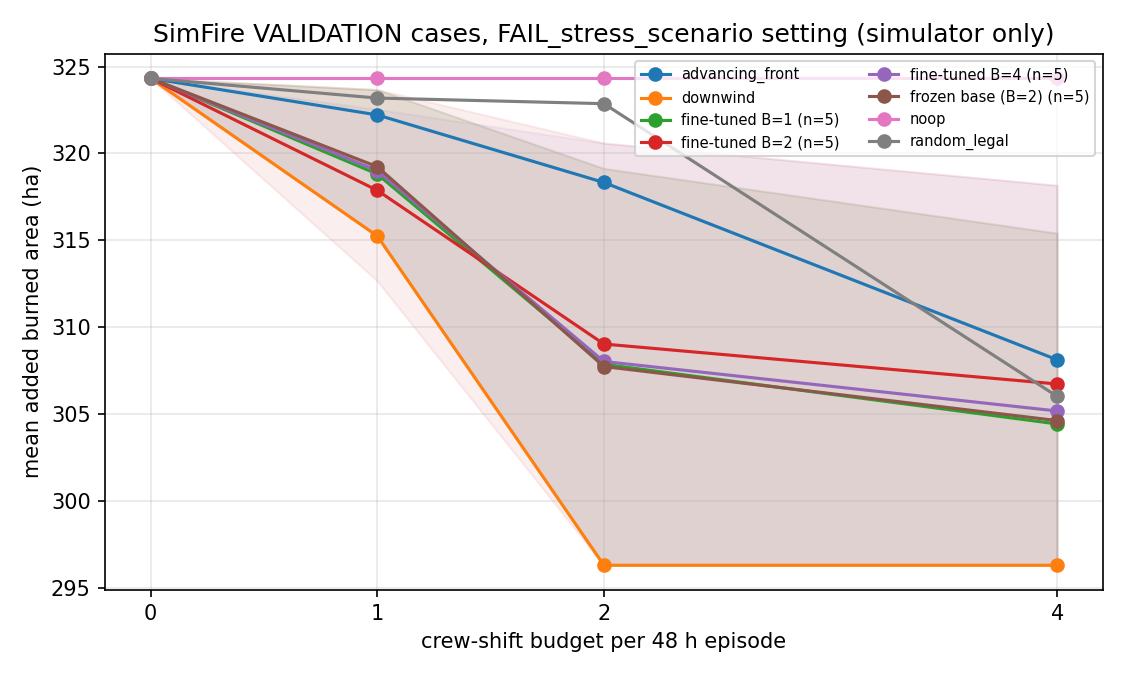
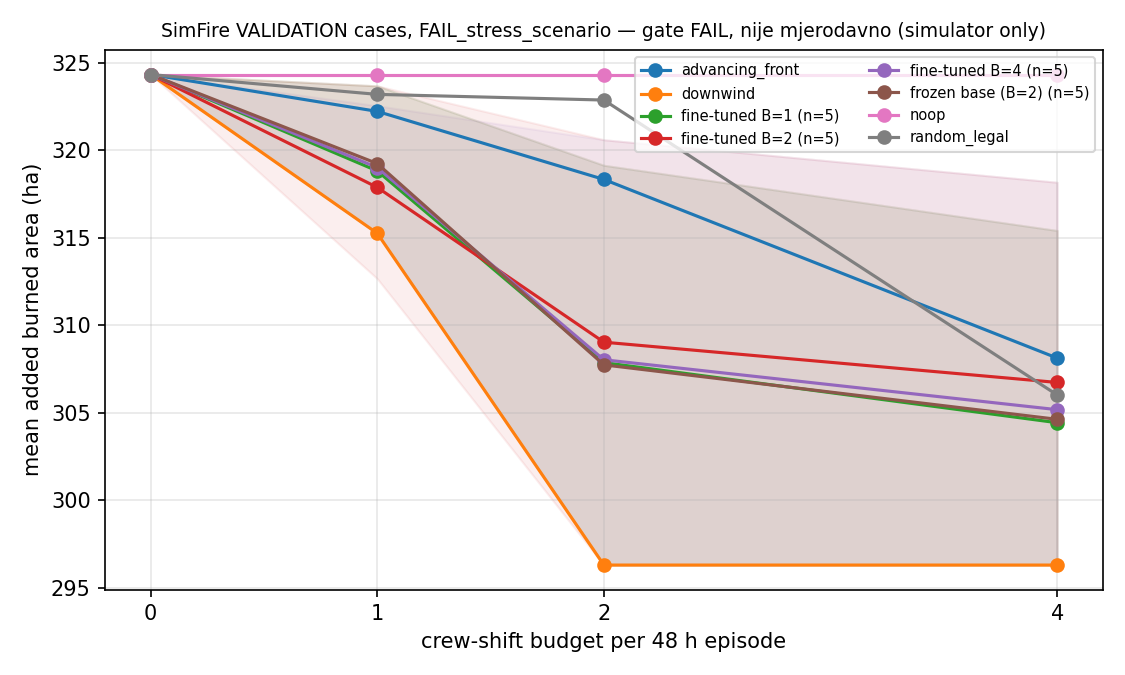
docs: record TASK-019 hypothesis checks; label step 7-8 results gate FAIL, nije mjerodavno

diff --git a/scripts/plot_budget_benchmark.py b/scripts/plot_budget_benchmark.py
@@ -55,8 +55,8 @@ def main(argv=None) -> int:
     axis.set_xticks(budgets)
     axis.set_xlabel("crew-shift budget per 48 h episode")
     axis.set_ylabel("mean added burned area (ha)")
-    axis.set_title("SimFire %s cases, %s setting (simulator only)" % (
-        report["split"].upper(), report.get("params_gate_status")))
+    axis.set_title("SimFire %s cases, %s — gate FAIL, nije mjerodavno (simulator only)" % (
+        report["split"].upper(), report.get("params_gate_status")), fontsize=9)
     axis.grid(alpha=0.3)
     axis.legend(fontsize=7, ncol=2)
     figure.tight_layout()

diff --git a/docs/NEXT_SESSION.md b/docs/NEXT_SESSION.md
@@ -21,6 +21,24 @@ puni izvještaji su u ignorisanom `.local/` na Harunovom računaru; obnova je op
    po budžetu ne daje mjerljivu korist, a downwind heuristika je jednako dobra ili bolja.
    Sve je simulatorski i eksploratorno.
 
+## TASK-019 hipoteze — šta je provjereno (pozitivno i negativno)
+
+| Hipoteza | Provjera | Rezultat |
+|---|---|---|
+| Nepotpune/izmijenjene FEDS arhive | MD5 svih 6 slojeva nakon prekinutog sekvencijalnog preuzimanja (exit 144 = namjerno ugašen i zamijenjen paralelnim) | sve OK, nema `.partial` |
+| Vremensko poravnanje 0–48h | svih 119 epizoda: start maske = prvi FEDS timestamp, četiri razmaka od tačno 12h; runner provjerava start | OK |
+| Konvencija vjetra | gridMET `th` je odakle puše; kod rotira +180° u SimFire smjer kuda; jedinični test; `vs` m/s → ft/min × WAF | OK; smjer nije uzrok (dijagnoza: deficit nije u smjeru nego u tome koji požar raste) |
+| Isti grid za SimFire, persistence, elipsu | isti 256×256/180 m raster, isti `all_touched`, ista inicijalna maska u sve tri metode | OK |
+| Nulti vjetar (sanity) | WAF 0 na 99 TRAIN (ADR-022): IoU .4768, i dalje raste u ~63% timepointa | rast bez vjetra postoji (Rothermel + nagib); potvrđuje pretjeran rast na statičnim požarima |
+| Ulazi drugačiji od Belminovih | 99/99 LANDFIRE/maski + 9 gridMET identični hashovi; WAF .01 reproduciran tačno | nije uzrok |
+| Prag paljenja / vijek ćelije | ROS × WAF mreža (ADR-023) | smanjuje lažni rast, ali do persistence se dolazi tek gašenjem skoro svega; FAIL |
+| Trening samo na TRAIN | env odbija ne-TRAIN bez eksplicitnog `split`; trening skripta fiksira `split="train"` | OK |
+
+Neprovjereno: vremenska zona FEDS `t` (pretpostavka UTC), finija vlaga goriva od `fm100`,
+model zaustavljanja/gašenja. **Svi rezultati koraka 7–8 su "gate FAIL, nije mjerodavno"**
+u smislu kalibracije; validation je preuzet i skoriran po korisnikovom odobrenju za
+eksploratorni nastavak (ADR-024).
+
 ## Odluke za tim (ne donositi ih bez korisnika)
 
 - Prihvatiti li stress scenarij kao radni simulator za predaju ili tražiti growth-aware

diff --git a/docs/research/EXPERIMENT_LOG.md b/docs/research/EXPERIMENT_LOG.md
@@ -355,7 +355,7 @@ rerun reproduced ADR-022 exactly (IoU .476852, area error 2,262.1ha) in ~42 s on
 processes. The stratified [diagnosis](../../reports/real-fire-data/feds-simfire-train-noop-diagnosis-v1.json)
 puts the whole IoU deficit in fires that barely grow in FEDS. Decision: ADR-023.
 
-## EXP-013 — preregistered spread-threshold grid and frozen VALIDATION scoring, 2026-11-04
+## EXP-013 — preregistered spread-threshold grid and frozen VALIDATION scoring, 2026-11-04 (gate FAIL, nije mjerodavno)
 
 ADR-023 grid ROS {0.35,0.5,0.7} × WAF {0.05,0.2,0.4}, lifetime 90 min, 5-min step, seed 0,
 99 TRAIN cases each, zero runner errors. Mean IoU / area error (ha) / edge timepoints:
@@ -374,7 +374,7 @@ stress record (WAF .01 / ROS 1.0). [VALIDATION once per record](../../reports/re
 Heuristic benchmark on the gate-freeze setting (VALIDATION): no-op adds 5.8ha on average
 and no heuristic changes that by more than 0.3ha — no room for interventions.
 
-## EXP-014 — budget-adaptation study on the free-burn stress scenario, 2026-11-04
+## EXP-014 — budget-adaptation study on the free-burn stress scenario, 2026-11-04 (gate FAIL, nije mjerodavno)
 
 ADR-026 protocol, local CPU (macOS ARM64, 7 env processes). Five seeds × (base PPO at
 B=2, 8,064 decisions, about 15–25 min; fine-tunes at B=1/2/4, 3,024 decisions, about
